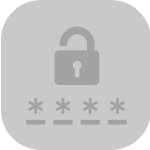
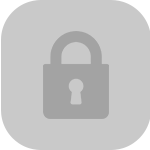
commit

Changed region(s): [[0.16, 0.16, 0.8267, 0.8267], [0.72, 0.8, 0.8533, 0.8267]]

diff --git a/static/css/web/layout.css b/static/css/web/layout.css
@@ -398,6 +398,11 @@ font-weight:600;}
 .popup_header .view_tbox03 .key_tbox.on .key_icon{background-image: url('/static/img/opener/w_key_icon_on.png');}
 .popup_header .view_tbox03 .key_tbox.on .view_txt01{color:#fff;}
 .popup_header .view_tbox03 .key_tbox.off .key_icon{background-image: url('/static/img/opener/g_key_icon_off.png');}
+
+.popup_header .view_tbox03 .key_tbox.on .key_icon02{background-image: url('/static/img/opener/w_password_icon_on.png');}
+.popup_header .view_tbox03 .key_tbox.off .key_icon02{background-image: url('/static/img/opener/g_password_icon_off.png');}
+.popup_header .view_tbox03 .key_tbox.on .key_icon03{background-image: url('/static/img/opener/w_password_icon_on.png');}
+.popup_header .view_tbox03 .key_tbox.off .key_icon03{background-image: url('/static/img/opener/g_password_icon_off.png');}
 .popup_header .view_tbox03 .view_txt01{width:auto;}
 
 .popup_title{margin-right:12px;}
